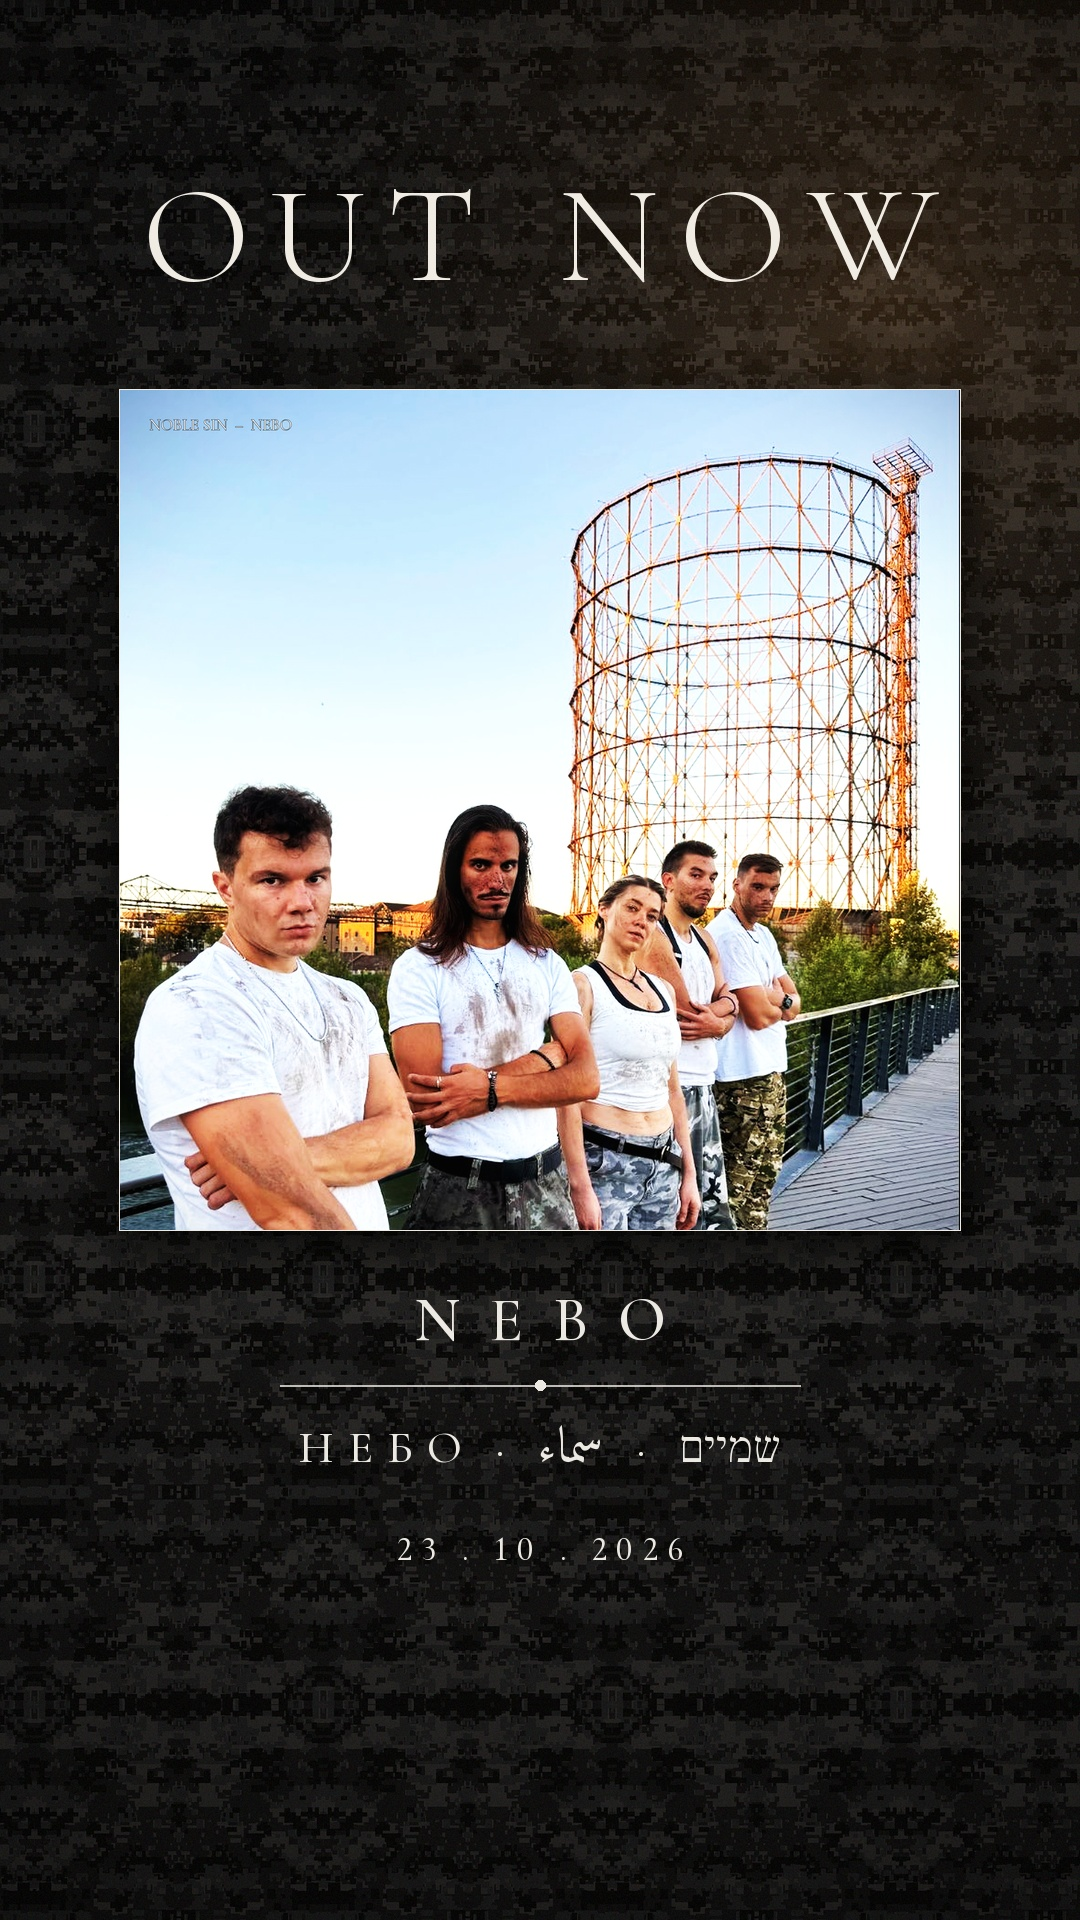
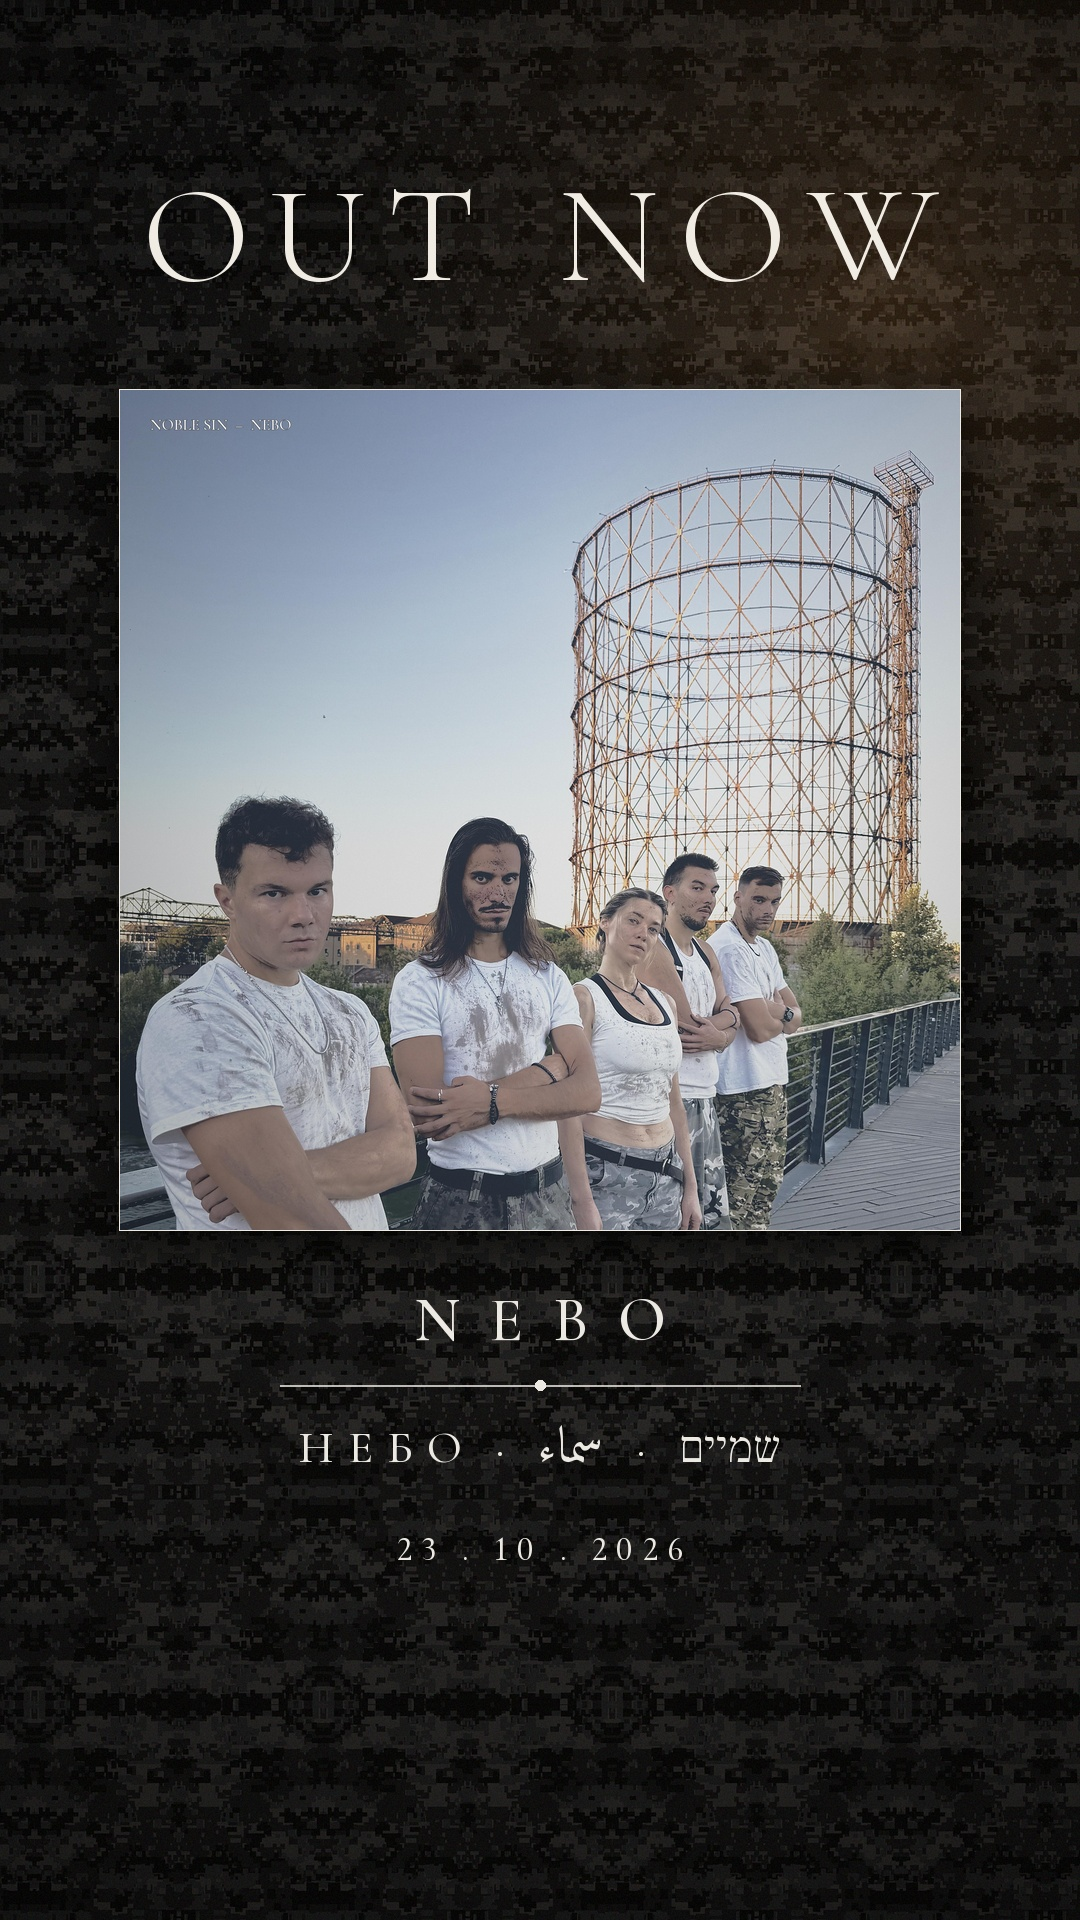
Nebo: add the real released cover; redo OUT NOW cards with it
Claude-Session: https://claude.ai/code/session_01BBentz39Qf6Pp4bK8Ek4qF

diff --git a/releases/nebo_rollout.md b/releases/nebo_rollout.md
@@ -145,7 +145,7 @@ TikTok versions are re-edits of the same footage (hook in the first 3s). The Neb
 | Asset | Status | Notes |
 |-------|--------|-------|
 | Final master (WAV) | [x] | Uploaded to DistroKid |
-| Artwork | [x] | `nebo_cover_v4.jpg` on DistroKid, needs adding to the repo (see Cover) |
+| Artwork | [x] | Real DistroKid/Spotify cover: `releases/nebo/artwork/NEBO_cover_DISTROKID_3000.jpg` (pulled from HyperFollow 21/10). `NEBO_cover_FINAL_3000.jpg` is an older brighter grade that was NOT released; don't use it |
 | IG profile pic | [x] | `social/assets/nebo/profile_pic_square.jpg` / `_camo.jpg` |
 | Teaser reel cover | [x] | `social/assets/nebo/reel_cover_loading_camo.jpg` (+ `_plain`) |
 | Other reel covers | [x] | `social/assets/nebo/reel_cover_vertical_{plain,camo}.jpg` |
